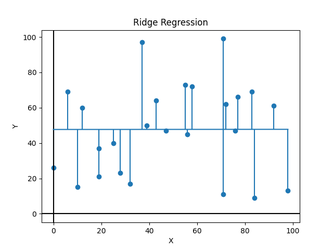
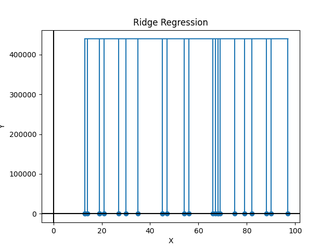
Created maps.py file

diff --git a/model.py b/model.py
@@ -94,11 +94,11 @@ class LinearModel(Model):
   def class_name(self):
     return "LinearModel"
   def get_sum_of_squared_residuals(self):
-    ss_residuals_av = 0
+    ss_residuals = 0
     for x,y in zip(self.training_x, self.training_y):
-      ss_residuals_av += math.abs(y - self.f(x)) ** 2
+      ss_residuals += math.abs(y - self.f(x)) ** 2
     g.debug.prn(self, 'SS Residuals gotten.')
-    return ss_residuals_av
+    return ss_residuals
   def get_slope(self):
     g.debug.prn(self, 'Got slope.', 3)
     return (self.f(self.training_x[0]) - self.f(self.training_x[1])) / (self.training_x[0] - self.training_x[1])
@@ -209,6 +209,91 @@ class RidgeModel(LinearModel):
     g.debug.prn(self, 'RidgeModel created')
   def class_name(self):
     return "RidgeModel"
+  def regularize(self):
+    y_av = np.mean(self.training_y)
+    x_av = np.mean(self.training_x)
+    lambda_ridge = 0
+    tr_x = self.training_x[:math.floor(len(self.training_x) / 10)]
+    te_x = self.training_x[math.ceil(len(self.training_x) / 10):]
+    variance = g.analyzer.get_variance_by_parts(self.f, tr_x)
+    bias = g.analyzer.get_variance_by_parts(self.f, te_x)
+    prev_epsilon = variance + bias ** 2
+    while True:
+      lambda_ridge += 0.1 * lambda_ridge
+      m = self.get_slope()
+      b = self.get_yint()
+      f = lambda x : lambda_ridge * m * x + lambda_ridge * b + epsilon
+      variance = g.analyzer.get_variance_by_parts(f, tr_x)
+      bias = g.analyzer.get_variance_by_parts(f, te_x)
+      epsilon = variance + bias ** 2
+      print(f'Lambda: {lambda_ridge}, Epsilon: {epsilon}')
+      if prev_epsilon <= epsilon:
+        self.f = f
+        break
+  def set_slope(self, slope):
+    yint = self.get_yint()
+    self.f = lambda x : slope * x + yint
+  def set_yint(self, yint):
+    slope = self.get_slope()
+    self.f = lambda x : slope * x + yint
+  def plot(self):
+    plotter = Plotter()
+    image_manager = ImageManager()
+    sketches = []
+    plotter.set_output_filename(g.files['ridge-regression'])
+    plotter.set_title('Ridge Regression')
+    g.debug.prn(self, 'Plot basics set.')
+
+    min_x = min(self.training_x)
+    max_x = max(self.training_x)
+    x_vals = []
+    y_vals = []
+    for x in range(min_x * 100, max_x * 100):
+      x_vals.append([x / 100])
+      y_vals.append([self.f(x / 100)])
+    sketches.append(SmoothSketch())
+    sketches[-1].add_x(x_vals)
+    sketches[-1].add_y(y_vals)
+    g.debug.prn(self, 'Linear curve saved as SmoothSketch.')
+
+    sketches.append(ScatterSketch())
+    sketches[-1].add_x(list(self.training_x))
+    sketches[-1].add_y(list(self.training_y))
+    g.debug.prn(self, 'Points saved as ScatterSketch.')
+
+    for i in range(len(self.training_x)):
+      if self.f(self.training_x[i]) > self.training_y[i]:
+        y_max = self.f(self.training_x[i])
+        y_min = self.training_y[i]
+      else:
+        y_min = self.f(self.training_x[i])
+        y_max = self.training_y[i]
+      sketches.append(VerticalLineSketch())
+      sketches[-1].set_y_max(y_max)
+      sketches[-1].set_y_min(y_min)
+      sketches[-1].set_x(self.training_x[i])
+      g.debug.prn(self, 'Vertical line appended.', 3)
+    g.debug.prn(self, 'SSR lines drawn as VerticalLineSketch(s).')
+
+    plotter.load(sketches)
+    plotter.save()
+    plotter.close()
+    g.debug.prn(self, 'All sketches loaded and saved.')
+
+    image_manager.scale(g.files['ridge-regression'], g.files['ridge-regression'], 250)
+
+    del plotter
+    del image_manager
+    g.debug.prn(self, 'Plotter and ImageManager objects deleted', 3)
+
+class LassoModel(LinearModel):
+  def __init__(self, f, training_x, training_y, index):
+    super().__init__(f, training_x, training_y, index)
+    self.math = Math()
+    self.regularize()
+    g.debug.prn(self, 'LassoModel created')
+  def class_name(self):
+    return "LassoModel"
   def regularize(self):
     y_av = np.mean(self.training_y)
     x_av = np.mean(self.training_x)
